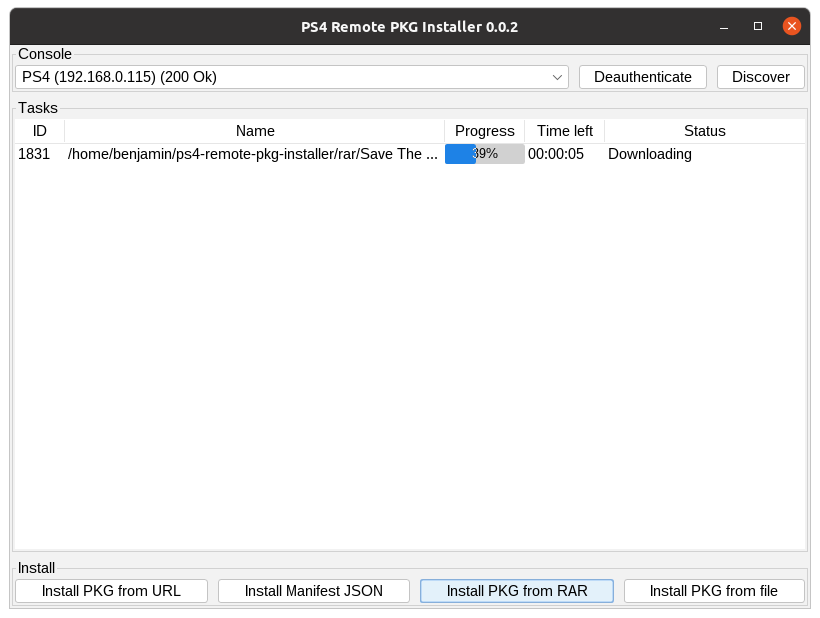
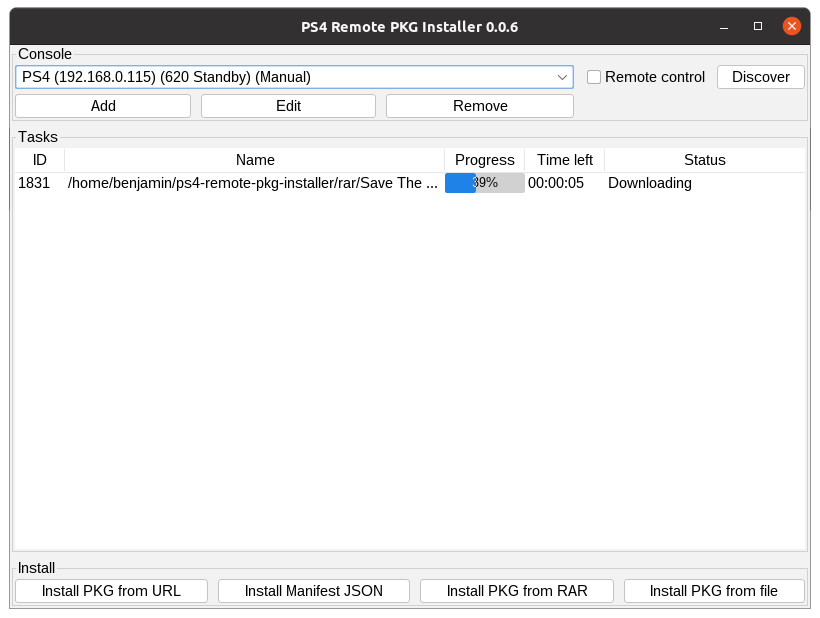
Add manual console management

diff --git a/src/main/java/com/benjaminfaal/ps4remotepkginstaller/ui/MainUI.java b/src/main/java/com/benjaminfaal/ps4remotepkginstaller/ui/MainUI.java
@@ -12,6 +12,7 @@ import com.benjaminfaal.ps4remotepkginstaller.authentication.event.Authenticated
 import com.benjaminfaal.ps4remotepkginstaller.authentication.event.DeAuthenticatedEvent;
 import com.benjaminfaal.ps4remotepkginstaller.event.AuthenticatingStatusEvent;
 import com.benjaminfaal.ps4remotepkginstaller.event.TaskUpdateEvent;
+import com.benjaminfaal.ps4remotepkginstaller.model.ManualConsole;
 import com.benjaminfaal.ps4remotepkginstaller.model.api.request.InstallManifestJSONUrlRequest;
 import com.benjaminfaal.ps4remotepkginstaller.model.api.request.InstallPKGUrlRequest;
 import com.benjaminfaal.ps4remotepkginstaller.model.api.request.InstallPackagesRequest;
@@ -19,6 +20,7 @@ import com.benjaminfaal.ps4remotepkginstaller.model.api.request.InstallRequest;
 import com.benjaminfaal.ps4remotepkginstaller.model.api.response.InstallResponse;
 import com.benjaminfaal.ps4remotepkginstaller.model.api.response.TaskProgress;
 import com.benjaminfaal.ps4remotepkginstaller.service.AuthenticationService;
+import com.benjaminfaal.ps4remotepkginstaller.service.ManualConsoleService;
 import com.benjaminfaal.ps4remotepkginstaller.service.RemotePKGInstallerService;
 import com.benjaminfaal.ps4remotepkginstaller.util.Utils;
 import com.github.junrar.Junrar;
@@ -45,6 +47,8 @@ import java.awt.*;
 import java.awt.event.ItemEvent;
 import java.io.File;
 import java.io.IOException;
+import java.net.InetAddress;
+import java.net.UnknownHostException;
 import java.nio.file.Files;
 import java.nio.file.Path;
 import java.time.Duration;
@@ -60,6 +64,8 @@ import java.util.stream.Collectors;
 @CommonsLog
 @Component
 public class MainUI extends JFrame {
+
+    private static final int DISCOVER_TIMEOUT = 5000;
 
     // Swing
     private JTable tblTasks;
@@ -88,6 +94,12 @@ public class MainUI extends JFrame {
 
     private JCheckBox chkRemoteControl;
 
+    private JButton btnAddConsole;
+
+    private JButton btnRemoveConsole;
+
+    private JButton btnEditConsole;
+
     // Spring
     @Value("${project.version}")
     private String projectVersion;
@@ -103,6 +115,9 @@ public class MainUI extends JFrame {
 
     @Autowired
     private AuthenticationService authenticationService;
+
+    @Autowired
+    private ManualConsoleService manualConsoleService;
 
     @Autowired
     private ApplicationContext applicationContext;
@@ -141,12 +156,40 @@ public class MainUI extends JFrame {
                 return component;
             }
         });
-        cmbDiscoveredConsoles.addItemListener(e -> {
-            if (e.getStateChange() == ItemEvent.SELECTED) {
-                Console console = (Console) e.getItem();
+        cmbDiscoveredConsoles.addItemListener(event -> {
+            if (event.getStateChange() == ItemEvent.SELECTED) {
+                Console console = (Console) event.getItem();
                 btnAuthenticate.setText(authenticationService.isAuthenticated(console) ? "Deauthenticate" : "Authenticate");
                 btnAuthenticate.setEnabled(true);
                 remotePKGInstallerService.setHost(console.getHost());
+
+                boolean isManualConsole = console instanceof ManualConsole;
+                btnEditConsole.setEnabled(isManualConsole);
+                btnRemoveConsole.setEnabled(isManualConsole);
+
+                new SwingWorker<Console, Void>() {
+                    @Override
+                    protected Console doInBackground() throws Exception {
+                        return PS4DDP.discover(console.getHost(), DISCOVER_TIMEOUT / 2);
+                    }
+
+                    @Override
+                    protected void done() {
+                        try {
+                            Console discoveredConsole = get();
+                            console.setStatus(discoveredConsole.getStatus());
+                            discoveredConsole.getData().forEach(console::putIfAbsent);
+                        } catch (Exception e) {
+                            console.setStatus(Status.UNKNOWN);
+                            String message = "Error connecting to " + console.getUserFriendlyName() + System.lineSeparator() + e.getMessage();
+                            log.error(message, e);
+                            JOptionPane.showMessageDialog(MainUI.this, message, "Error connecting", JOptionPane.ERROR_MESSAGE);
+                        } finally {
+                            cmbDiscoveredConsoles.repaint();
+                        }
+                    }
+                }.execute();
+
                 refreshTasks();
                 if (isRemoteControl()) {
                     connect(console);
@@ -154,7 +197,6 @@ public class MainUI extends JFrame {
             }
         });
 
-        discoverConsoles();
         btnDiscoverConsoles.addActionListener(e -> discoverConsoles());
 
         btnAuthenticate.addActionListener(e -> {
@@ -174,11 +216,54 @@ public class MainUI extends JFrame {
             settings.setProperty("remoteControl", String.valueOf(remoteControl));
             btnAuthenticate.setVisible(remoteControl);
         });
+
+        DefaultComboBoxModel<Console> model = (DefaultComboBoxModel<Console>) cmbDiscoveredConsoles.getModel();
+        btnAddConsole.addActionListener(e -> {
+            String host = JOptionPane.showInputDialog(this, "Enter PS4 host", "Add PS4", JOptionPane.QUESTION_MESSAGE);
+            if (StringUtils.hasText(host)) {
+                validateHost(host);
+                ManualConsole addedManualConsole = manualConsoleService.add(host);
+                model.insertElementAt(addedManualConsole, 0);
+                model.setSelectedItem(addedManualConsole);
+            }
+        });
+
+        btnEditConsole.addActionListener(e -> {
+            ManualConsole selectedManualConsole = (ManualConsole) cmbDiscoveredConsoles.getSelectedItem();
+            String newHost = (String) JOptionPane.showInputDialog(this, "Enter PS4 host", "Add PS4", JOptionPane.QUESTION_MESSAGE, null, null, selectedManualConsole.getHost());
+            if (StringUtils.hasText(newHost)) {
+                validateHost(newHost);
+                manualConsoleService.edit(selectedManualConsole, newHost);
+                model.setSelectedItem(null);
+                model.setSelectedItem(selectedManualConsole);
+            }
+        });
+
+        btnRemoveConsole.addActionListener(e -> {
+            ManualConsole selectedManualConsole = (ManualConsole) cmbDiscoveredConsoles.getSelectedItem();
+            manualConsoleService.remove(selectedManualConsole);
+            authenticationService.deAuthenticate(selectedManualConsole);
+            model.removeElement(selectedManualConsole);
+        });
+
+        SwingUtilities.invokeLater(this::discoverConsoles);
+    }
+
+    private void validateHost(String host) {
+        try {
+            InetAddress.getByName(host);
+        } catch (UnknownHostException e) {
+            JOptionPane.showMessageDialog(this, "Invalid host: " + host + System.lineSeparator() + e.getMessage(), "Invalid host", JOptionPane.ERROR_MESSAGE);
+            throw new IllegalArgumentException("Invalid host: " + host, e);
+        }
     }
 
     private void discoverConsoles() {
         DefaultComboBoxModel<Console> model = (DefaultComboBoxModel<Console>) cmbDiscoveredConsoles.getModel();
         model.removeAllElements();
+        for (ManualConsole manualConsole : manualConsoleService.get()) {
+            model.addElement(manualConsole);
+        }
 
         btnDiscoverConsoles.setText("Discovering...");
         btnDiscoverConsoles.setEnabled(false);
@@ -187,7 +272,7 @@ public class MainUI extends JFrame {
         new SwingWorker<List<Console>, Console>() {
             @Override
             protected List<Console> doInBackground() throws Exception {
-                return PS4DDP.discover(5000, this::publish);
+                return PS4DDP.discover(DISCOVER_TIMEOUT, this::publish);
             }
 
             @Override
@@ -295,7 +380,7 @@ public class MainUI extends JFrame {
         initTasksTablePopupMenu();
 
         Timer refreshTasksTimer = new Timer(5000, e -> {
-            if (isWindowActive() && isRemotePKGInstallerRunning()) {
+            if (isWindowActive() && remotePKGInstallerService.countTasks() > 0 && isRemotePKGInstallerRunning()) {
                 refreshTasks();
             }
         });

diff --git a/src/main/java/com/benjaminfaal/ps4remotepkginstaller/service/impl/ManualConsoleServiceImpl.java b/src/main/java/com/benjaminfaal/ps4remotepkginstaller/service/impl/ManualConsoleServiceImpl.java
@@ -1,0 +1,82 @@
+package com.benjaminfaal.ps4remotepkginstaller.service.impl;
+
+import com.benjaminfaal.ps4remotecontrol.ddp.model.Status;
+import com.benjaminfaal.ps4remotepkginstaller.Settings;
+import com.benjaminfaal.ps4remotepkginstaller.model.ManualConsole;
+import com.benjaminfaal.ps4remotepkginstaller.service.ManualConsoleService;
+import com.fasterxml.jackson.core.JsonProcessingException;
+import com.fasterxml.jackson.core.type.TypeReference;
+import com.fasterxml.jackson.databind.ObjectMapper;
+import lombok.extern.apachecommons.CommonsLog;
+import org.springframework.beans.factory.InitializingBean;
+import org.springframework.beans.factory.annotation.Autowired;
+import org.springframework.stereotype.Service;
+
+import java.util.ArrayList;
+import java.util.HashMap;
+import java.util.List;
+import java.util.UUID;
+
+@CommonsLog
+@Service
+public class ManualConsoleServiceImpl implements ManualConsoleService, InitializingBean {
+
+    @Autowired
+    private Settings settings;
+
+    private final List<ManualConsole> manualConsoles = new ArrayList<>();
+
+    private final ObjectMapper objectMapper = new ObjectMapper();
+
+    @Override
+    public void afterPropertiesSet() throws Exception {
+        if (settings.containsKey("manualConsoles")) {
+            try {
+                TypeReference<List<ManualConsole>> manualConsolesTypeReference = new TypeReference<List<ManualConsole>>() {};
+                List<ManualConsole> previousManualConsoles = objectMapper.readValue(settings.getProperty("manualConsoles"), manualConsolesTypeReference);
+                manualConsoles.addAll(previousManualConsoles);
+            } catch (JsonProcessingException e) {
+                log.error("Error loading previous manual consoles", e);
+            }
+        }
+    }
+
+    @Override
+    public List<ManualConsole> get() {
+        return new ArrayList<>(manualConsoles);
+    }
+
+    @Override
+    public ManualConsole add(String host) {
+        ManualConsole manualConsole = new ManualConsole();
+        manualConsole.setHost(host);
+        manualConsole.setStatus(Status.UNKNOWN);
+        HashMap<String, String> data = new HashMap<>();
+        data.put("host-id", UUID.randomUUID().toString());
+        manualConsole.setData(data);
+        manualConsoles.add(manualConsole);
+        saveManualConsoles();
+        return manualConsole;
+    }
+
+    @Override
+    public void edit(ManualConsole manualConsole, String newHost) {
+        manualConsole.setHost(newHost);
+        saveManualConsoles();
+    }
+
+    @Override
+    public void remove(ManualConsole manualConsole) {
+        manualConsoles.remove(manualConsole);
+        saveManualConsoles();
+    }
+
+    private void saveManualConsoles() {
+        try {
+            settings.setProperty("manualConsoles", objectMapper.writeValueAsString(manualConsoles));
+        } catch (JsonProcessingException e) {
+            log.error("Error saving manual consoles");
+        }
+    }
+
+}

diff --git a/src/main/java/com/benjaminfaal/ps4remotepkginstaller/model/ManualConsole.java b/src/main/java/com/benjaminfaal/ps4remotepkginstaller/model/ManualConsole.java
@@ -1,0 +1,23 @@
+package com.benjaminfaal.ps4remotepkginstaller.model;
+
+import com.benjaminfaal.ps4remotecontrol.ddp.model.Console;
+import com.fasterxml.jackson.annotation.JsonIgnore;
+import lombok.Data;
+import lombok.EqualsAndHashCode;
+
+@Data
+@EqualsAndHashCode(callSuper = true)
+public class ManualConsole extends Console {
+
+    @JsonIgnore
+    @Override
+    public String getUserFriendlyName() {
+        return super.getUserFriendlyName() + " (Manual)";
+    }
+
+    @JsonIgnore
+    @Override
+    public boolean isEmpty() {
+        return super.isEmpty();
+    }
+}

diff --git a/src/main/java/com/benjaminfaal/ps4remotepkginstaller/service/ManualConsoleService.java b/src/main/java/com/benjaminfaal/ps4remotepkginstaller/service/ManualConsoleService.java
@@ -1,0 +1,17 @@
+package com.benjaminfaal.ps4remotepkginstaller.service;
+
+import com.benjaminfaal.ps4remotepkginstaller.model.ManualConsole;
+
+import java.util.List;
+
+public interface ManualConsoleService {
+
+    List<ManualConsole> get();
+
+    ManualConsole add(String host);
+
+    void edit(ManualConsole manualConsole, String newHost);
+
+    void remove(ManualConsole manualConsole);
+
+}
